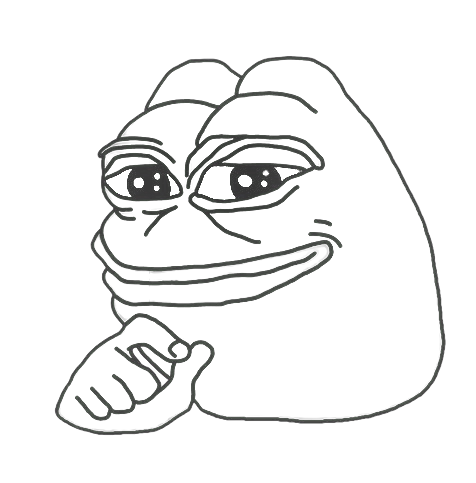
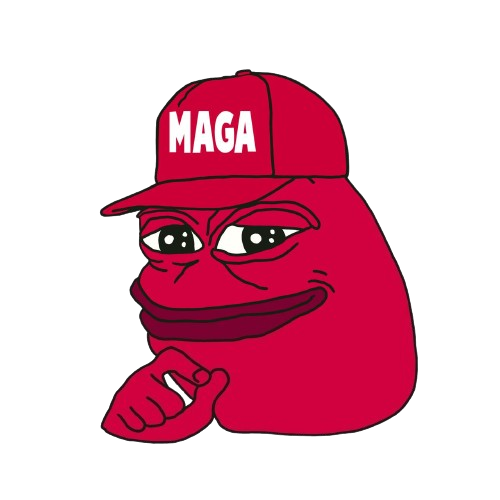
pepe image added

diff --git a/index.html b/index.html
@@ -3907,7 +3907,7 @@
                             <div data-first="1" data-slide-duration="0" data-id="7" data-slide-public-id="1"
                               data-title="Slide" class="n2-ss-slide n2-ow n2-ss-slide-7" style="
                                   background-color: #cc0037;
-                                  background-image: url(/images/Picsart_24-06-20_05-09-24-679.png);
+                                 
                                   background-repeat: no-repeat;
                                   background-position: bottom left;
                                 ">
@@ -4185,7 +4185,7 @@
                                                           sans-serif;
                                                         color: #fff;
                                                       ">
-                                                    What is $PEPE but in bull form with a touch of $MAGA? Introducing $MAGABULL, combining the most unforgettable metas in
+                                                    What is pepe but in bull form with a touch of MAGA? Introducing MAGABULL, combining the most unforgettable metas in
                                                     memecoin history
                                                   </div>
                                                 </div>
@@ -4423,8 +4423,8 @@
                                                         text-align: center;
                                                         color: #fff;
                                                       ">
-                                                    $BULL is poised to dominate the meme coin market by combining the most influential metas to date: $PEPE and $MAGA.
-                                                    Introducing $MAGABULL, a unique blend of these iconic memes, designed to take the meme coin world by storm.
+                                                    $BULL is poised to dominate the meme coin market by combining the most influential metas to date: pepe and MAGA.
+                                                    Introducing MAGABULL, a unique blend of these iconic memes, designed to take the meme coin world by storm.
                                                     
                                                     
                                                   </div>
@@ -4440,7 +4440,7 @@
                                                         color: #fff;
                                                       ">
                                                     $BULL is here to make meme coins great again. Launched stealthily with no presale, LP burnt, ownership renounced, and
-                                                    zero taxes, $BULL embodies the spirit of true decentralization. Inspired by the legendary $PEPE & $MAGA, $BULL is set to
+                                                    zero taxes, $BULL embodies the spirit of true decentralization. Inspired by the legendary pepe & MAGA, $BULL is set to
                                                     redefine what a meme coin can achieve
                                                     
                                                     
@@ -4768,7 +4768,12 @@
                               class="n2-ow n2-ss-preserve-size n2-ss-preserve-size--slider n2-ss-slide-limiter" />
                             <div data-first="1" data-slide-duration="0" data-id="10" data-slide-public-id="1"
                               data-title="Slide" class="n2-ss-slide n2-ow n2-ss-slide-10"
-                              style="background-color: #cc0037">
+                              style="background-color: #cc0037 ;
+                                  
+                                  background-image: url(/images/Picsart_24-06-20_05-09-24-679.png);
+                                  background-repeat: no-repeat;
+                                  background-position: top left;
+                                ">
                               <div role="note" class="n2-ss-slide--focus" tabindex="-1">
                                 Slide
                               </div>
@@ -4797,7 +4802,7 @@
                                         </div>
                                       </div>
                                       <div
-                                        class="n2-ss-layer n2-ow n2-ss-layer--block n2-ss-has-self-align n-uc-16807db0135cf"
+                                        class="n2-ss-layer n2-ow n2-ss-layer--block n2-ss-has-self-align n-uc-16807db0135cf" style="margin-top: 15%;"
                                         data-pm="normal" data-sstype="row">
                                         <div
                                           class="n2-ss-layer-row n2-ss-layer-with-background n-uc-16807db0135cf-inner">
